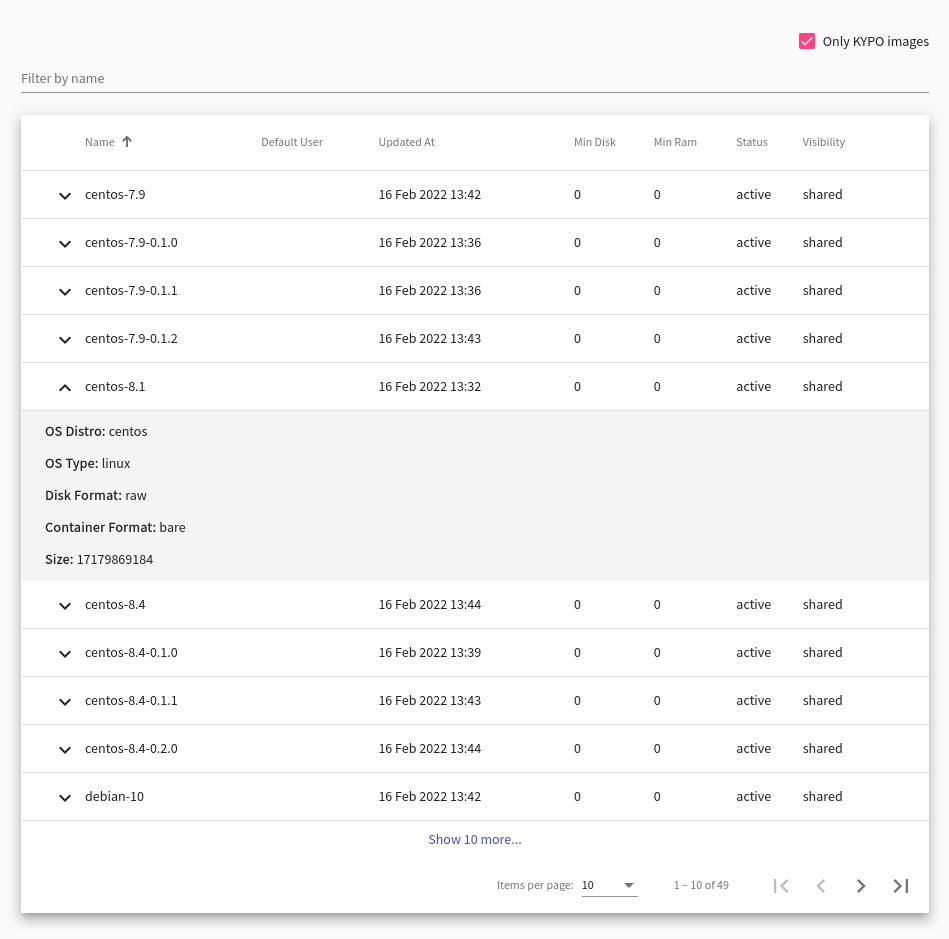
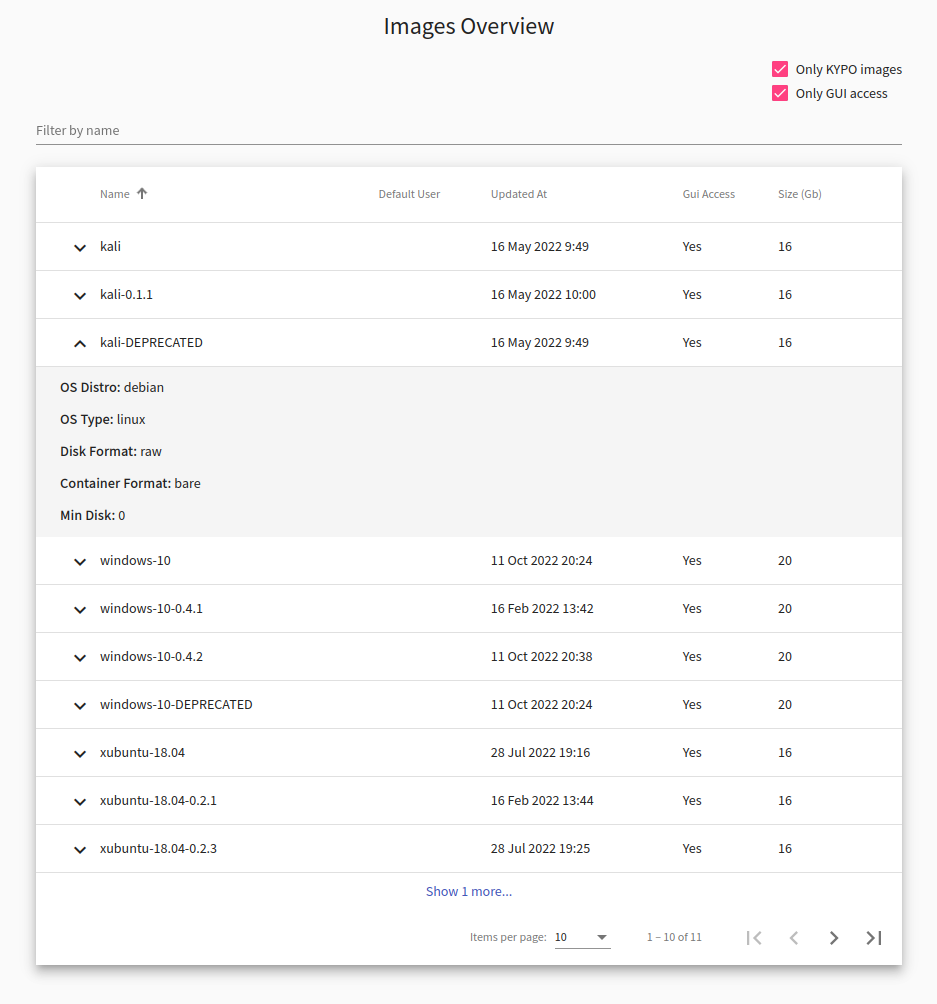
Resolve "document changes - refactoring of resources page"

diff --git a/docs/user-guide-basic/sandbox-agenda/resources.md b/docs/user-guide-basic/sandbox-agenda/resources.md
@@ -16,10 +16,11 @@ Provides a list of available images that can be installed on virtual machines. E
 * **Name**: The unique name of the image.
 * **Default User**: User used to login to the virtual machine via GUI or connect via SSH.
 * **Updated At**: Last time image was updated.
-* **Min Disk**: Minimum amount of disk memory to boot image, in gigabytes.
-* **Min RAM**: Minimum amount of main memory to boot image, in megabytes.
-* **Status**
-* **Visibility**: Public, private, community, shared.
+* **Gui Access**: Signals if graphical user interface is installed for the image.
+* **Size**: The size of the image, in gigabytes.
+
+!!! note
+    Don't get confused by the **Gb** in the name of column **Size**. The value is in gigabytes, not gigabits.
 
 Click extend button :material-chevron-down:{: .icon .grey} to show **detailed information** about the image: 
 
@@ -27,11 +28,15 @@ Click extend button :material-chevron-down:{: .icon .grey} to show **detailed in
 * **OS Type**: Linux or windows.
 * **Disk Format**: The format of the underlying disk image specifies how the disk stores information.
 * **Container Format**: Indicates whether the image also contains metadata about the virtual machine (bare = no metadata).
-* **Size**: The size of the image, in bytes.
+* **Min Disk**: Minimum amount of disk memory to boot image, in gigabytes.
+* **Min RAM**: Minimum amount of main memory to boot image, in megabytes.
+* **Visibility**: Public, private, community, shared.
 * **Created At**: Time of the creation.
 * **Tags**: Used to filter images.
-* **Owner specified**: special variables specified by KYPO images, **gui_access** - used to signal GUI is installed for the image.
+* **Version**: Specifies the version of the image.
 
 Checkbox **Only KYPO images** allows filtering of images that are created by the KYPO team.
+
+Checkbox **Only GUI access** allows filtering of images that have graphical user interface installed for the image.
 
 ![overview-images](../../img/user-guide-basic/sandbox-agenda/resources/overview-images.png)
